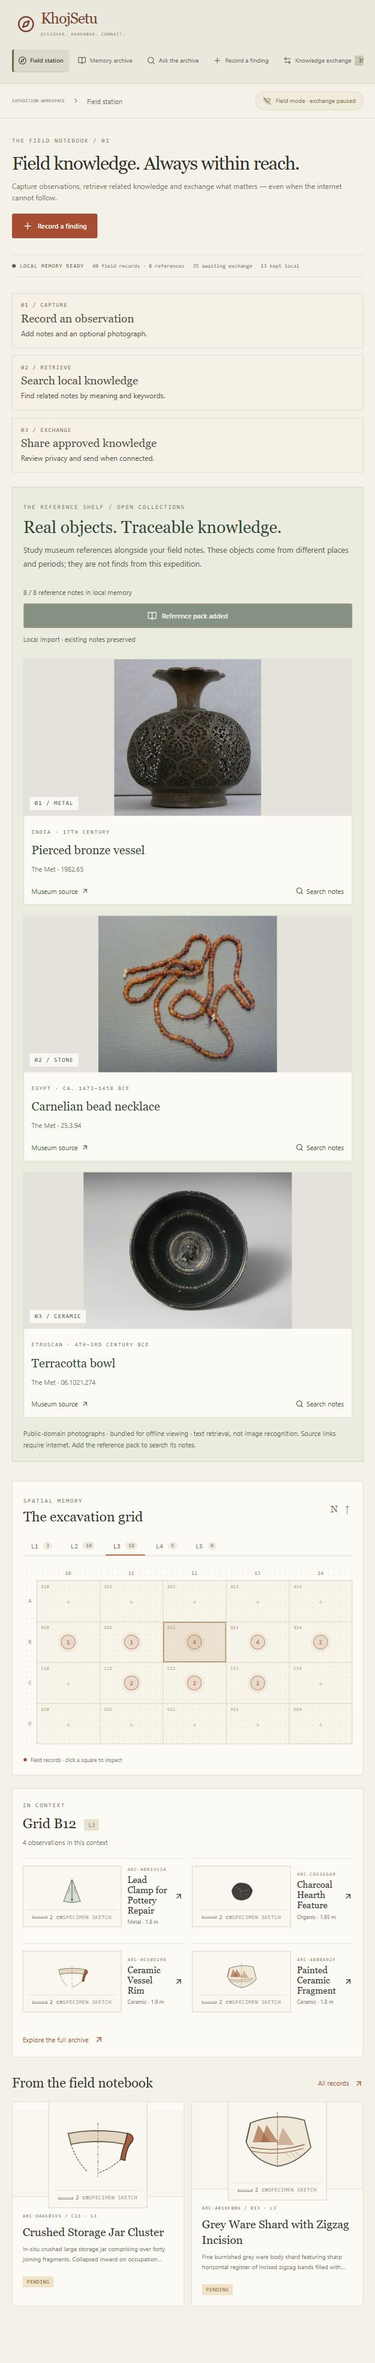
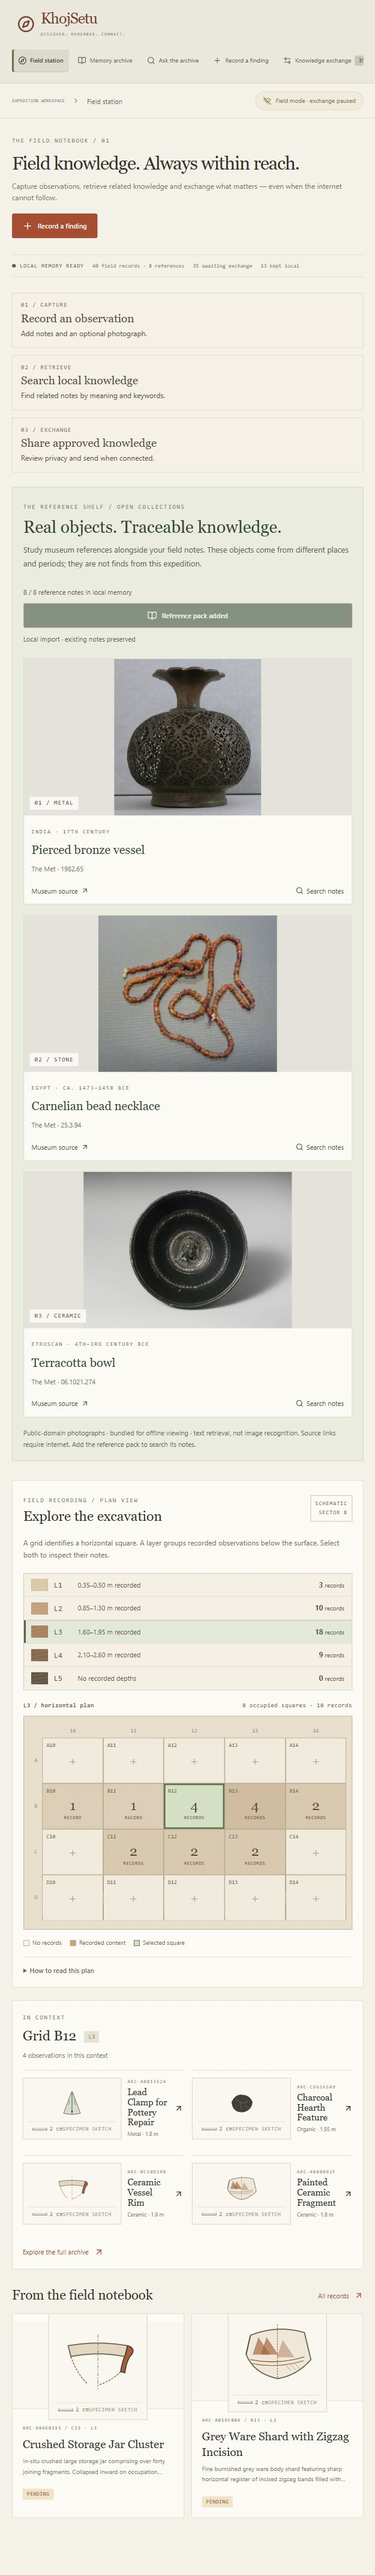
Improve excavation plan and recorded layer context

diff --git a/src/workstation.css b/src/workstation.css
@@ -17,3 +17,5 @@
 .field-steps{display:grid;grid-template-columns:repeat(3,minmax(0,1fr));gap:12px;margin:0 0 24px}.field-steps button{padding:18px;text-align:left;border:1px solid var(--line);background:#f5f1e7;color:#514c3c;cursor:pointer}.field-steps button:hover{background:#ebeede;border-color:#899771}.field-steps span{display:block;font:10px Consolas,monospace;letter-spacing:1px;color:#786e58}.field-steps strong{display:block;font:19px Georgia,serif;margin:9px 0}.field-steps small{display:block;font-size:12px;line-height:1.6}.service-warning{border:1px solid #b77648;background:#fff1df;padding:18px;margin-bottom:20px;color:#643d24}.service-warning p{font-size:13px;line-height:1.6;margin:8px 0 12px}@media(max-width:780px){.field-steps{grid-template-columns:1fr}.field-steps button{padding:14px}.field-steps strong{margin:5px 0}}
 
 .museum-library{margin:12px 0 32px;padding:28px;background:#e9ecdf;border:1px solid #cbd1bb}.museum-intro{display:flex;justify-content:space-between;gap:28px;align-items:center;margin-bottom:24px}.museum-intro h2{font:32px/1.15 Georgia,serif;color:#304434;margin:10px 0}.museum-intro p{max-width:610px;font-size:13px;line-height:1.75;color:#58604d}.museum-action{flex-shrink:0;display:flex;flex-direction:column;gap:10px}.museum-action>span,.museum-action small{font-size:11px;color:#59624e}.museum-action .primary{background:#334936}.museum-cards{display:grid;grid-template-columns:repeat(3,minmax(0,1fr));gap:18px}.museum-card{background:#fbfaf5;border:1px solid #d6d8cb;min-width:0}.museum-photo{position:relative;background:#e4e2db;height:245px;overflow:hidden}.museum-photo img{width:100%;height:100%;object-fit:contain}.museum-photo>span{position:absolute;bottom:10px;left:10px;background:#fbfaf5ee;padding:5px 8px;font:10px Consolas,monospace;text-transform:uppercase;letter-spacing:1px;color:#3f4a37}.museum-caption{padding:18px}.museum-caption .eyebrow{font-size:9px;line-height:1.7}.museum-caption h3{font:23px/1.25 Georgia,serif;color:#334632;margin:10px 0}.museum-caption p{font-size:11px;color:#72755f}.museum-links{display:flex;justify-content:space-between;gap:10px;flex-wrap:wrap;margin-top:20px}.museum-links a,.museum-links button{display:inline-flex;gap:5px;align-items:center;font-size:11px;color:#425b36;background:none;border:0;padding:0;text-decoration:none;cursor:pointer}.museum-links button:disabled{opacity:.45;cursor:not-allowed}.museum-footnote{font-size:11px!important;line-height:1.7;color:#60694f;margin-top:17px!important}.museum-record-photo{min-width:0}.museum-record-photo img{object-fit:contain;background:#efeee7}.museum-record-photo .photo-detail{display:block;margin:auto}.museum-record-photo .photo-caption{max-width:520px}.museum-library>p[role]{font-size:13px;line-height:1.7;margin-top:16px}@media(max-width:1100px){.museum-intro{align-items:flex-start;flex-direction:column}.museum-photo{height:190px}.museum-caption{padding:13px}.museum-caption h3{font-size:20px}}@media(max-width:780px){.museum-library{padding:18px}.museum-cards{grid-template-columns:1fr}.museum-photo{height:260px}.museum-intro h2{font-size:28px}.museum-action{width:100%}}
+
+.plan-stamp{font:9px/1.6 Consolas,monospace;letter-spacing:1px;text-align:right;border:1px solid #c9bea6;padding:7px;color:#74664e}.plan-help{font-size:12px;line-height:1.7;color:#776b55;margin:14px 0}.layer-profile{border:1px solid #c7baa1;margin:20px 0}.layer-profile button{width:100%;display:grid;grid-template-columns:28px 30px 1fr auto;align-items:center;gap:10px;padding:9px 12px;background:#f4f0e5;border:0;border-bottom:1px solid #d8cfbc;color:#665840;text-align:left;cursor:pointer}.layer-profile button:last-child{border-bottom:0}.layer-profile button[aria-pressed=true]{background:#e4e9d7;box-shadow:inset 3px 0 #536746}.soil-swatch{height:20px;background:repeating-linear-gradient(170deg,transparent 0 5px,#ffffff24 5px 6px),var(--soil);border:1px solid #00000015}.layer-profile strong{font:13px Consolas,monospace}.layer-profile button>span:not(.soil-swatch){font-size:11px}.layer-profile b{font-size:12px}.layer-profile b small{font-weight:normal;font-size:10px}.plan-summary{display:flex;justify-content:space-between;gap:10px;flex-wrap:wrap;font:10px Consolas,monospace;letter-spacing:.4px;margin:18px 0 12px;color:#685e4a}.survey-plan{background:#e8dfcd;background-image:radial-gradient(#76604316 .7px,transparent .7px);background-size:5px 5px;padding:12px 9px 14px;border:1px solid #bcae93}.survey-plan .grid-row{gap:0}.survey-plan .grid-cell{border:1px solid #b6a688;border-radius:0;background:#faf7ee80;min-height:76px;height:76px;position:relative}.survey-plan .grid-cell.occupied{background:rgba(159,116,65,calc(.10 + var(--density)*.055))}.survey-plan .grid-cell.chosen{background:#d5dfc3;box-shadow:inset 0 0 0 2px #526948;border-color:#526948}.survey-plan .grid-cell small{position:absolute;top:6px;left:6px;font:9px Consolas,monospace;color:#71634d}.plan-count{font:23px Georgia,serif;color:#5f4930;display:flex;flex-direction:column;align-items:center;line-height:1.1;padding-top:10px}.plan-count em{font:8px Consolas,monospace;text-transform:uppercase;letter-spacing:.5px;margin-top:3px}.survey-cross{color:#b2a489;font:20px Georgia,serif}.plan-legend{display:flex;gap:14px;flex-wrap:wrap;margin:15px 0;font-size:10px;color:#786b54}.plan-legend span{display:flex;gap:5px;align-items:center}.plan-legend i{height:10px;width:10px;display:inline-block;border:1px solid #b6a688}.legend-empty{background:#faf7ee}.legend-filled{background:#c4a678}.legend-selected{background:#d5dfc3;border-color:#526948!important}.plan-key{font-size:11px;line-height:1.75;color:#74664f;border-top:1px solid var(--line);padding-top:12px}.plan-key summary{cursor:pointer;font-weight:600}.plan-key p{margin-top:8px}@media(max-width:520px){.layer-profile button{grid-template-columns:20px 25px 1fr auto;gap:6px;padding:8px}.layer-profile button>span:not(.soil-swatch){font-size:10px}.survey-plan{padding:8px 3px}.survey-plan .grid-cell{min-height:65px;height:65px}.plan-count{font-size:19px}.plan-count em{font-size:7px}}

diff --git a/src/Workstation.tsx b/src/Workstation.tsx
@@ -5,6 +5,7 @@ import { ArtifactIllustration } from './components/records/ArtifactIllustration'
 import './workstation.css';
 import { PhotoCapture, type Photo } from './PhotoCapture';
 import { DeviceControls } from './DeviceControls';
+import {ExcavationPlan} from './ExcavationPlan';
 import {MuseumLibrary, museumImage, MUSEUM_PACK_ID} from './MuseumLibrary';
 
 type Field = {referenceSource?:{packId?:string;entryId?:string;source:string;sourceUrl?:string;title?:string;license:string;evidenceType:string};id:string; uuid:string; title:string; fieldNotes:string; material:string; grid:string;
@@ -117,11 +118,7 @@ export default function App(){
             <section className="field-steps" aria-label="Field workflow"><button onClick={()=>navigate('record')}><span>01 / CAPTURE</span><strong>Record an observation</strong><small>Add notes and an optional photograph.</small></button><button onClick={()=>navigate('search')}><span>02 / RETRIEVE</span><strong>Search local knowledge</strong><small>Find related notes by meaning and keywords.</small></button><button onClick={()=>navigate('exchange')}><span>03 / EXCHANGE</span><strong>Share approved knowledge</strong><small>Review privacy and send when connected.</small></button></section>
             {!records.length&&<div className="seed"><div><strong>A fresh field notebook.</strong><p>Start a real record, or load the clearly marked synthetic excavation dataset to explore the workflow.</p></div><button className="secondary" disabled={busy} onClick={()=>action(async()=>{setState(await api<State>('/seed',{}));setNotice('Synthetic field records indexed in Qdrant Edge.');})}>{busy?'Indexing records…':'Load demo expedition'}</button></div>}
             <MuseumLibrary importedIds={records.filter(r=>r.referenceSource?.packId===MUSEUM_PACK_ID).map(r=>r.referenceSource?.entryId||'')} onImported={refresh} onSearch={q=>{setQuery(q);setSearchLayer('');setMaterial('');setMode('HYBRID');setResult(null);navigate('search');}}/>
-            <div className="station-layout"><section className="sheet map-sheet"><div className="sheet-head"><div><span className="eyebrow">SPATIAL MEMORY</span><h2>The excavation grid</h2></div><span className="north">N ↑</span></div>
-              <div className="layer-tabs" aria-label="Excavation layer">{['L1','L2','L3','L4','L5'].map(l=><button key={l} className={layer===l?'selected':''} onClick={()=>setLayer(l)}>{l}<span>{fieldRecords.filter(r=>r.layer===l).length}</span></button>)}</div>
-              <div className="excavation"><div className="grid-labels"><span/>{[10,11,12,13,14].map(n=><span key={n}>{n}</span>)}</div>{['A','B','C','D'].map(row=><div className="grid-row" key={row}><span>{row}</span>{[10,11,12,13,14].map(n=>{const id=row+n;const found=fieldRecords.filter(r=>r.grid===id&&r.layer===layer);return <button aria-label={`Grid ${id}, ${found.length} findings`} className={'grid-cell '+(cell===id?'chosen':'')} key={id} onClick={()=>setCell(id)}><small>{id}</small>{found.length>0?<span className="find-mark">{found.length}</span>:<span className="cross">+</span>}</button>;})}</div>)}</div>
-              <div className="map-caption"><span><i className="dot clay"/> Field records · click a square to inspect</span><span>SCHEMATIC · NOT TO SCALE</span></div>
-            </section><section className="sheet context-sheet"><span className="eyebrow">IN CONTEXT</span><h2>Grid {cell}<span className="layer-tag">{layer}</span></h2><p className="muted">{cellRecords.length} observations in this context</p><div className="context-list">{cellRecords.slice(0,4).map(r=><button key={r.id} onClick={()=>setSelected(r)}><FindingImage record={r} size="sm"/><span><small>{r.id}</small><strong>{r.title}</strong><em>{r.material} · {r.depth} m</em></span><ArrowUpRight size={15}/></button>)}{!cellRecords.length&&<p className="empty-note">No findings recorded here yet. A blank square is a place to begin.</p>}</div><button className="text-button" onClick={()=>navigate('archive')}>Explore the full archive <ArrowUpRight size={16}/></button></section></div>
+            <div className="station-layout"><ExcavationPlan records={fieldRecords} layer={layer} cell={cell} onLayer={setLayer} onCell={setCell}/><section className="sheet context-sheet"><span className="eyebrow">IN CONTEXT</span><h2>Grid {cell}<span className="layer-tag">{layer}</span></h2><p className="muted">{cellRecords.length} observations in this context</p><div className="context-list">{cellRecords.slice(0,4).map(r=><button key={r.id} onClick={()=>setSelected(r)}><FindingImage record={r} size="sm"/><span><small>{r.id}</small><strong>{r.title}</strong><em>{r.material} · {r.depth} m</em></span><ArrowUpRight size={15}/></button>)}{!cellRecords.length&&<p className="empty-note">No observations recorded for this square and layer. This does not establish whether the area has been excavated.</p>}</div><button className="text-button" onClick={()=>navigate('archive')}>Explore the full archive <ArrowUpRight size={16}/></button></section></div>
             <div className="section-line"><h2>From the field notebook</h2><button className="text-button" onClick={()=>navigate('archive')}>All records <ArrowUpRight size={15}/></button></div>
             <div className="record-strip">{fieldRecords.slice(0,3).map(r=><button className="specimen" key={r.id} onClick={()=>setSelected(r)}><div className="specimen-art"><FindingImage record={r} size="lg"/></div><div><span className="eyebrow">{r.id} / {r.grid} · {r.layer}</span><h3>{r.title}</h3><p>{r.fieldNotes}</p><span className={'status '+r.syncStatus.toLowerCase()}>{label(r.syncStatus)}</span></div></button>)}</div>
           </>}

diff --git a/src/ExcavationPlan.tsx b/src/ExcavationPlan.tsx
@@ -1,0 +1,27 @@
+import type {CSSProperties} from 'react';
+type Observation={grid:string;layer:string;depth:number;material:string};
+const layers=['L1','L2','L3','L4','L5'];
+const rows=['A','B','C','D'];
+const columns=[10,11,12,13,14];
+const tones=['#d9c9a7','#c1a27b','#a7825c','#88684c','#665543'];
+function depthRange(records:Observation[]){
+  const depths=records.map(r=>r.depth).filter(d=>Number.isFinite(d)&&d>0);
+  if(!depths.length)return 'No recorded depths';
+  const low=Math.min(...depths),high=Math.max(...depths);
+  return low===high?`${low.toFixed(2)} m recorded`:`${low.toFixed(2)}–${high.toFixed(2)} m recorded`;
+}
+export function ExcavationPlan({records,layer,cell,onLayer,onCell}:{records:Observation[];layer:string;cell:string;onLayer:(value:string)=>void;onCell:(value:string)=>void}){
+  const selected=records.filter(r=>r.layer===layer);
+  const plotted=selected.filter(r=>rows.some(row=>columns.some(column=>r.grid===row+column)));
+  const occupied=new Set(plotted.map(r=>r.grid)).size;
+  return <section className="sheet map-sheet field-plan">
+    <div className="sheet-head"><div><span className="eyebrow">FIELD RECORDING / PLAN VIEW</span><h2>Explore the excavation</h2></div><span className="plan-stamp">SCHEMATIC<br/>SECTOR B</span></div>
+    <p className="plan-help">A grid identifies a horizontal square. A layer groups recorded observations below the surface. Select both to inspect their notes.</p>
+    <div className="layer-profile" aria-label="Recorded layers">{layers.map((l,i)=>{const group=records.filter(r=>r.layer===l);return <button key={l} aria-pressed={layer===l} aria-label={`${l}, ${group.length} records`} style={{'--soil':tones[i]} as CSSProperties} onClick={()=>onLayer(l)}><span className="soil-swatch" aria-hidden="true"/><strong>{l}</strong><span>{depthRange(group)}</span><b>{group.length}<small> records</small></b></button>;})}</div>
+    <div className="plan-summary"><strong>{layer} / horizontal plan</strong><span>{occupied} occupied squares · {plotted.length} records</span></div>
+    <div className="excavation survey-plan"><div className="grid-labels"><span/>{columns.map(n=><span key={n}>{n}</span>)}</div>{rows.map(row=><div className="grid-row" key={row}><span>{row}</span>{columns.map(n=>{const id=row+n;const found=plotted.filter(r=>r.grid===id);return <button key={id} aria-label={`Grid ${id}, ${found.length} findings`} aria-pressed={cell===id} className={'grid-cell '+(cell===id?'chosen':'')+(found.length?' occupied':'')} style={{'--density':Math.min(found.length,5)} as CSSProperties} onClick={()=>onCell(id)}><small>{id}</small>{found.length?<span className="plan-count">{found.length}<em>{found.length===1?'record':'records'}</em></span>:<span className="survey-cross" aria-hidden="true">+</span>}</button>;})}</div>)}</div>
+    <div className="plan-legend"><span><i className="legend-empty"/> No records</span><span><i className="legend-filled"/> Recorded context</span><span><i className="legend-selected"/> Selected square</span></div>
+    {selected.length!==plotted.length&&<p className="plan-help">{selected.length-plotted.length} records in this layer are outside the displayed A10–D14 grid. Find them in the archive.</p>}
+    <details className="plan-key"><summary>How to read this plan</summary><p>Counts come from your field records; museum references are excluded. Depth ranges summarize entered values, not measured layer boundaries. Colour bands distinguish labels and do not identify soil, age or cultural period. Empty squares mean no records, not an excavated or archaeologically empty area. The diagram has no surveyed scale, orientation or precise find positions.</p></details>
+  </section>;
+}

diff --git a/docs/VALIDATION.md b/docs/VALIDATION.md
@@ -74,3 +74,5 @@ The field station now includes three verified public-domain Met photographs, ser
 Type checking and production build passed. All six reference-pack tests passed (non-failing dependency/cache warnings). Image files and their pack-entry mappings were validated; both diagram pages parsed and the GIF has 28 frames. Browser checks verified all three photographs loaded, one-click import (8 added, 0 overwritten), the bronze-vessel search shortcut and result, and its photograph/source in record detail. Fixed reference-result labels to avoid displaying placeholder excavation coordinates.
 
 The main local demo now has 40 original synthetic field records plus 8 local-only museum references; no original observations were deleted or overwritten and field mode stayed enabled. This is not a real excavation deployment or image-recognition evaluation. Museum photographs are static application assets, outside the field-data budget and field attachment synchronization.
+
+Excavation-plan polish (8 October): Added soil-toned layer selectors showing actual entered depth ranges, grid occupancy shading/counts and an explicit legend. Labels explain that depths are record summaries, colours are not soil identification, and empty squares are not proof of excavation or absence of archaeology. Museum references remain excluded. Type checking/build passed; browser checked L5's empty grid and return to L3 (18 records, eight occupied squares). No records changed.

diff --git a/RESUME.md b/RESUME.md
@@ -26,3 +26,5 @@ Presentation checkpoint (7 October 2026): Updated README architecture, two-page 
 Finale usability checkpoint (8 October): Field station has three workflow shortcuts; backend loss is explicitly distinguished from field mode, with automatic recovery. Added read-only Check-KhojSetu.ps1 and corrected outdated START-HERE boundaries. Type checking, build, browser outage/recovery and readiness success/failure checks passed. No demo data mutations. Physical webcam and two-laptop setup/rehearsal remain outstanding.
 
 Museum UI checkpoint (8 October): Three official public-domain Met photographs are bundled under public/museum with attribution. Field station now offers one-click reference import and gallery-to-search navigation. Matching references use their own source photographs; synthetic field records retain labelled illustrations. Main field-07 now has 48 records: original 40 plus eight local-only museum references, imported through the UI. Tests/build passed; README, DEMO, source documentation, GIF/SVG/PNG, editable diagram and pitch regenerated/aligned. Archived user assets untouched.
+
+Field-plan UI (8 October): ExcavationPlan.tsx replaces the old grid presentation with layer depth summaries, occupancy shading and clear schematic explanations. Type checking/build and empty/populated-layer browser checks passed. README screenshot updated; underlying architecture and archived assets unchanged.
